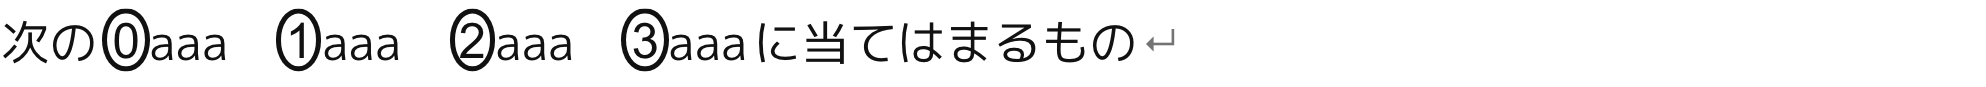
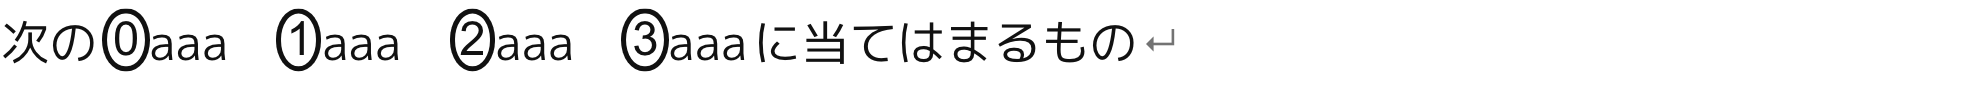
Reduce choice digits by another half point

diff --git a/apps/desktop/src/app/document-surface.test.ts b/apps/desktop/src/app/document-surface.test.ts
@@ -571,6 +571,6 @@ describe("枠レイヤを落とすとセグメントの border に戻る", () =>
     expect(staticChoice["border-radius"]).toBe("50%");
     expect(staticChoice["font-variant-numeric"]).toBe("tabular-nums");
     expect(staticChoice["vertical-align"]).toBe("middle");
-    expect(staticText["font-size"]).toBe("calc(1.067em - 0.5pt)");
+    expect(staticText["font-size"]).toBe("calc(1.067em - 1pt)");
   });
 });

diff --git a/apps/desktop/src/lib/math-macros.ts b/apps/desktop/src/lib/math-macros.ts
@@ -36,7 +36,7 @@ export const SIGMA_MATHLIVE_MACRO_STYLES = String.raw`
   align-items: center;
   display: inline-flex;
   font-family: inherit !important;
-  font-size: calc(1.067em - 0.5pt);
+  font-size: calc(1.067em - 1pt);
   font-style: inherit;
   font-variant-numeric: inherit;
   font-weight: inherit;

diff --git a/apps/desktop/src/app/document-surface.css b/apps/desktop/src/app/document-surface.css
@@ -275,7 +275,7 @@
   align-items: center;
   display: inline-flex;
   font-family: inherit !important;
-  font-size: calc(1.067em - 0.5pt);
+  font-size: calc(1.067em - 1pt);
   font-style: inherit;
   font-variant-numeric: inherit;
   font-weight: inherit;
